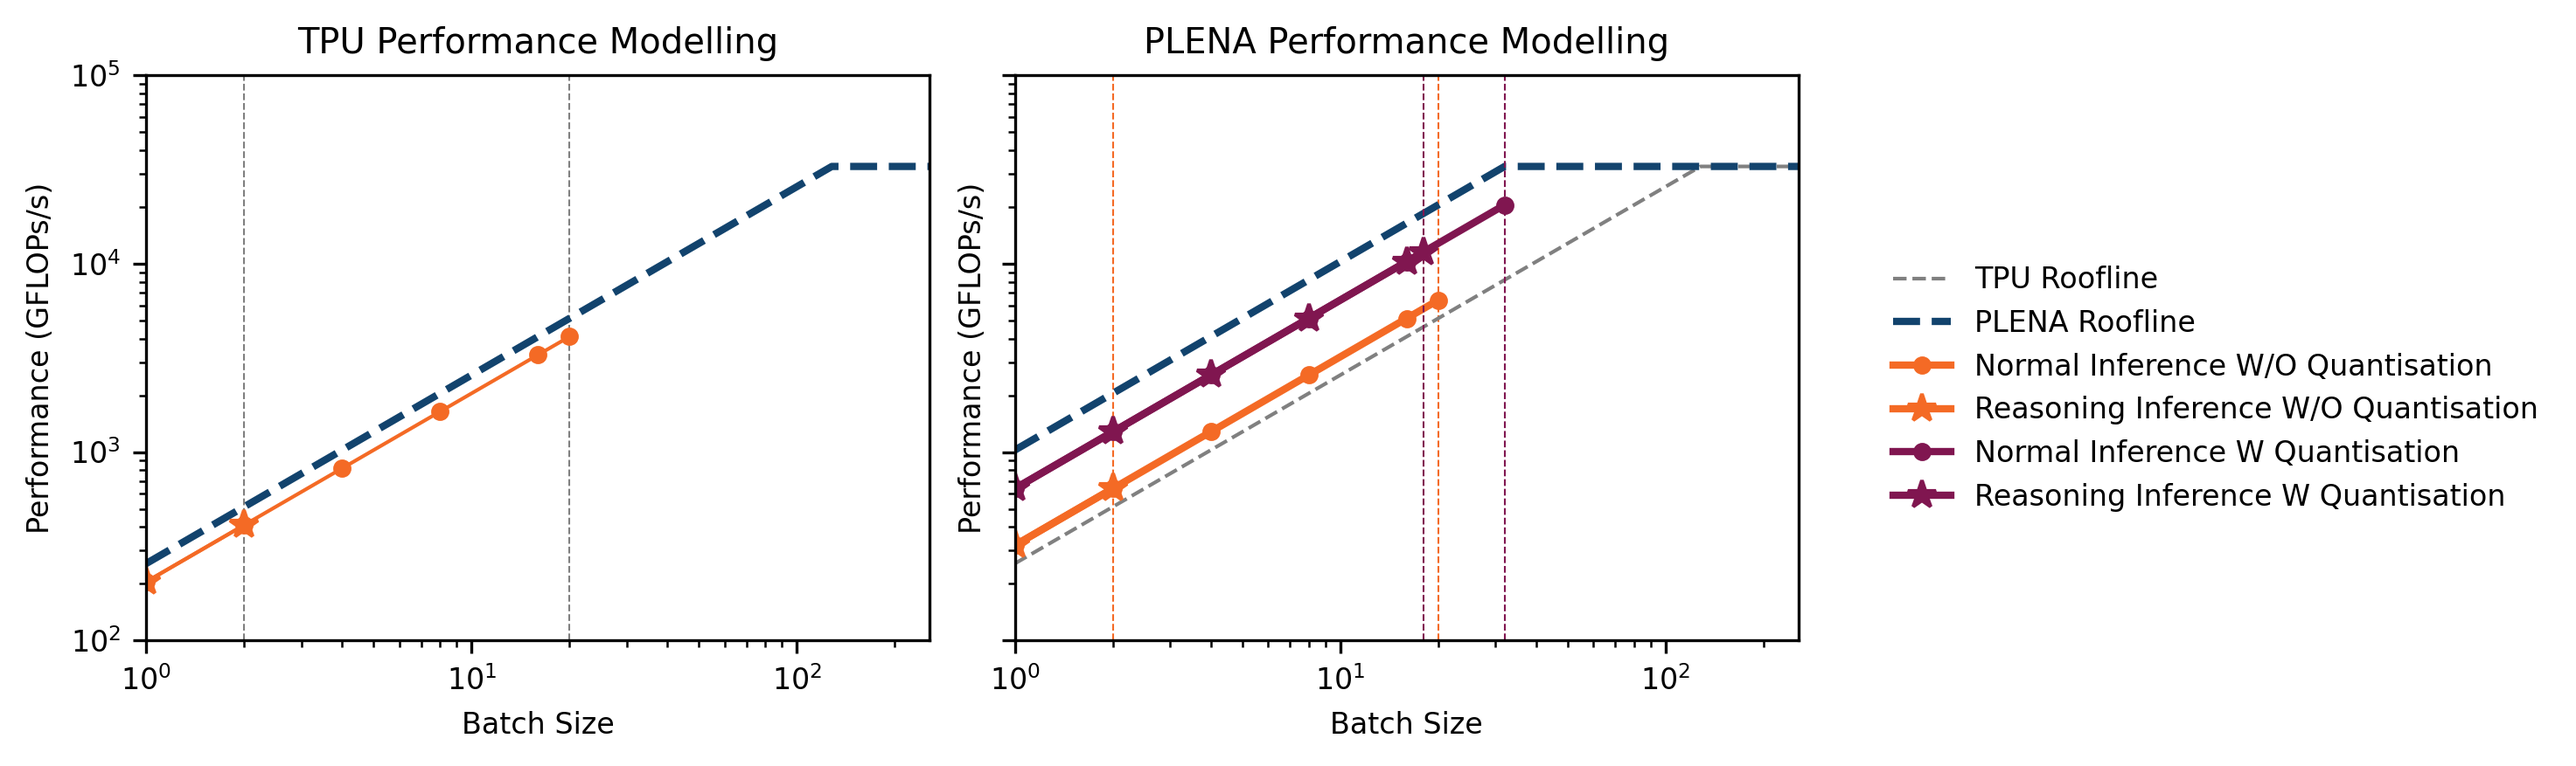
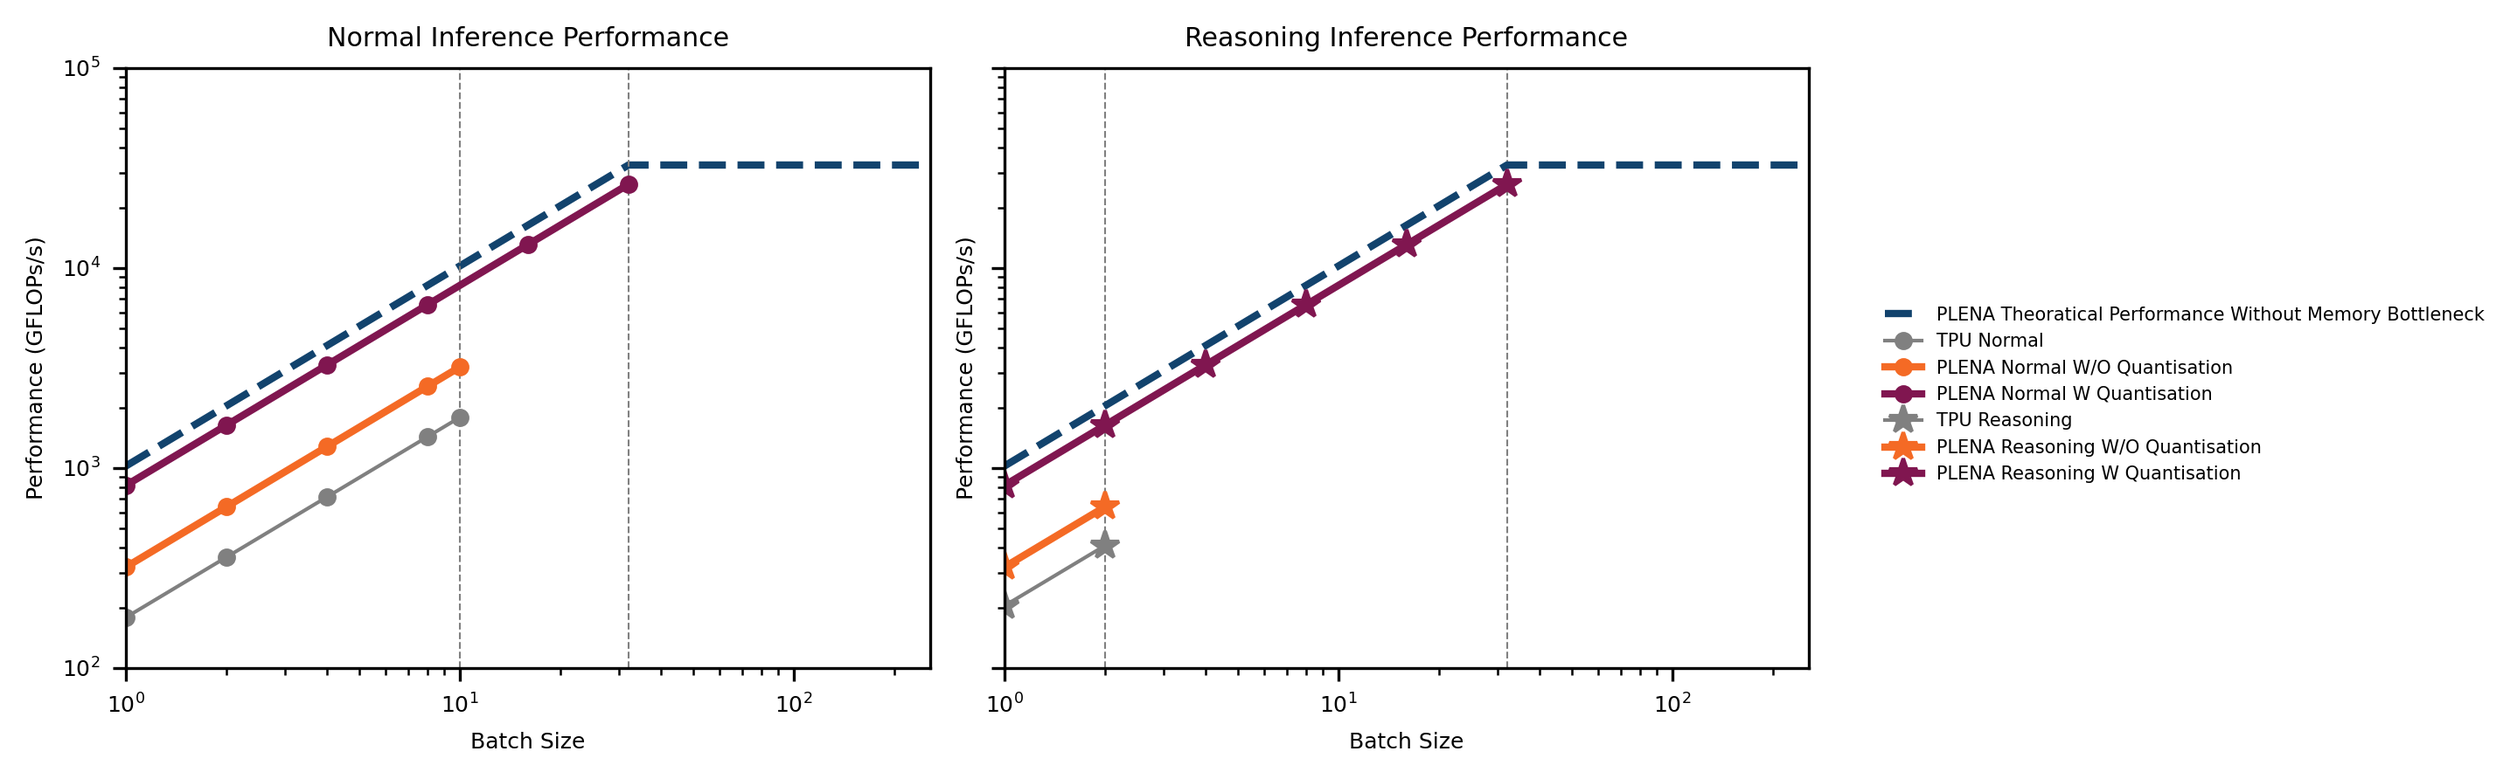
roofline model and fp_adder timing updates

diff --git a/tools/roofline_model/v2_roofline_model_plot.py b/tools/roofline_model/v2_roofline_model_plot.py
@@ -21,7 +21,7 @@ Operate_Freq = 1e9      # 1 GHz
 DataWidth = 2           # 1 byte per element
 HBM_Bandwidth = 800e9   # 512 GB/s
 HBM_Capacity = 128      # 128 GB
-SEQ_LENGTH_NORM =  256
+SEQ_LENGTH_NORM =  512
 SEQ_LENGTH_REASONING = 2048
 
 B200_Params = {
@@ -121,6 +121,7 @@ def device_performance(device_model, seq_context_length, max_batch, model_config
         roofline_performance[batch] = min(peak_tflops, max_tflops)
     
     actual_performance = {}
+    print("device width:", device_model.data_width)
     max_tilesize = device_model.hbm_bandwidth / (2 * device_model.operate_freq * device_model.data_width)
     print("batch_bound:", batch_bound, "max_tilesize:", max_tilesize)
     sampled_batch = select_powers_of_two_with_last(batch_bound)
@@ -135,7 +136,7 @@ def device_performance(device_model, seq_context_length, max_batch, model_config
 
 
 if __name__ == "__main__":
-    matplotlib.rcParams['font.size'] = 8
+    matplotlib.rcParams['font.size'] = 6
     config_parent_path  = Path(__file__).resolve().parents[2]
     print(f"Config parent path: {config_parent_path}")
     model_config_path   = os.path.join(config_parent_path, "doc/Model_Lib/llama-3.1-70b.json")
@@ -144,109 +145,122 @@ if __name__ == "__main__":
 
 
     # Plot TPU Performance
-    tpu_model = DeviceModel(operate_freq=TPU_Params["Operate_Freq"], M=TPU_Params["M"], K=TPU_Params["K"], N=TPU_Params["N"], data_width=TPU_Params["DataWidth"], hbm_bandwidth=TPU_Params["HBM_Bandwidth"], hbm_capacity=TPU_Params["HBM_Capacity"])
-    tpu_roofline_performance, tpu_actual_performance_normal, normal_batch_bound = device_performance(tpu_model, SEQ_LENGTH_NORM, 256, model_config)
+    tpu_model   = DeviceModel(operate_freq=TPU_Params["Operate_Freq"], M=TPU_Params["M"], K=TPU_Params["K"], N=TPU_Params["N"], data_width=TPU_Params["DataWidth"], hbm_bandwidth=TPU_Params["HBM_Bandwidth"], hbm_capacity=TPU_Params["HBM_Capacity"])
+    plena_model = DeviceModel(operate_freq=PLENA["Operate_Freq"], M=PLENA["M"], K=PLENA["K"], N=TPU_Params["N"], data_width= PLENA["DataWidth"], hbm_bandwidth=PLENA["HBM_Bandwidth"], hbm_capacity=PLENA["HBM_Capacity"])
+    soft_optimised_plena_model = DeviceModel(operate_freq=PLENA["Operate_Freq"], M=PLENA["M"], K=PLENA["K"], N=TPU_Params["N"], data_width= PLENA["DataWidth"] / 3, hbm_bandwidth=PLENA["HBM_Bandwidth"], hbm_capacity=PLENA["HBM_Capacity"])
+
+    tpu_roofline_performance, tpu_actual_performance_normal, tpu_normal_batch_bound = device_performance(tpu_model, SEQ_LENGTH_NORM, 256, model_config)
     _, tpu_actual_performance_reasoning, reasoning_batch_bound = device_performance(tpu_model, SEQ_LENGTH_REASONING, 256, model_config)
+
+    plena_roofline_performance, plena_actual_performance_normal, plena_normal_batch_bound = device_performance(plena_model, SEQ_LENGTH_NORM, 256, model_config)
+    _, plena_actual_performance_reasoning, plena_reasoning_batch_bound = device_performance(plena_model, SEQ_LENGTH_REASONING, 256, model_config)
+
+    _, soft_optimised_actual_performance_normal, soft_optimised_normal_batch_bound = device_performance(soft_optimised_plena_model, SEQ_LENGTH_NORM, 256, model_config)
+    _, soft_optimised_actual_performance_reasoning, soft_optimised_reasoning_batch_bound = device_performance(soft_optimised_plena_model, SEQ_LENGTH_REASONING, 256, model_config)
+
     ax1.set_xscale('log')
     ax1.set_yscale('log')
     ax1.set_ylabel('Performance (GFLOPs/s)')
     ax1.set_xlabel('Batch Size')
     ax1.set_ylim(1e2, 1e5)
     ax1.set_xlim(1, 256)
-    ax1.set_title('TPU Performance Modelling')
-    ax1.vlines(normal_batch_bound, 1e2, 1e5, color='gray', linestyle='--', linewidth=0.5)
-    ax1.vlines(reasoning_batch_bound, 1e2, 1e5, color='gray', linestyle='--', linewidth=0.5)
-    ax1.plot(list(tpu_roofline_performance.keys()), list(tpu_roofline_performance.values()), label='TPU Roofline', color=colors[0], linewidth=2, linestyle='--')
-    ax1.plot(
-    list(tpu_actual_performance_normal.keys()),
-    [v * 0.8 for v in tpu_actual_performance_normal.values()],
-    label='TPU Actual',
-    marker='o',  markersize=4,
-    color=colors[1],
-    linewidth=1
-    )
+    ax1.set_title('Normal Inference Performance')
 
+    ax1.plot(list(plena_roofline_performance.keys()), list(plena_roofline_performance.values()), label='PLENA Theoratical Performance Without Memory Bottleneck', color=colors[0], linewidth=2, linestyle='--')
+    ax1.vlines(tpu_normal_batch_bound, 1e2, 1e5, color='grey', linestyle='--', linewidth=0.5)
     ax1.plot(
-    list(tpu_actual_performance_reasoning.keys()),
-    [v * 0.8 for v in tpu_actual_performance_reasoning.values()],
-    label='TPU Actual',
-    marker='*',  markersize=8,
-    color=colors[1],
-    linewidth=1
+        list(tpu_actual_performance_normal.keys()),
+        [v * 0.7 for v in tpu_actual_performance_normal.values()],
+        label='TPU Normal',
+        marker='o',  markersize=4,
+        color='grey',
+        linewidth=1
     )
 
 
-    # Plot PLENA Performance
-    plena_model = DeviceModel(operate_freq=PLENA["Operate_Freq"], M=PLENA["M"], K=PLENA["K"], N=TPU_Params["N"], data_width=PLENA["DataWidth"], hbm_bandwidth=PLENA["HBM_Bandwidth"], hbm_capacity=PLENA["HBM_Capacity"])
-    roofline_performance, plena_actual_performance_normal, normal_batch_bound = device_performance(plena_model, SEQ_LENGTH_NORM, 256, model_config)
-    _, plena_actual_performance_reasoning, reasoning_batch_bound = device_performance(plena_model, SEQ_LENGTH_REASONING, 256, model_config)
+    ax1.vlines(soft_optimised_normal_batch_bound, 1e2, 1e5, color = 'grey', linestyle='--', linewidth=0.5)
+
+
+    ax1.plot(
+        list(plena_actual_performance_normal.keys()),
+        [v * 0.8 for v in plena_actual_performance_normal.values()],
+        label='PLENA Normal W/O Quantisation',
+        marker='o',  markersize=4,
+        color=colors[1],
+        linewidth=2
+    )
+
+    ax1.plot(
+        list(soft_optimised_actual_performance_normal.keys()),
+        [v * 0.8 for v in soft_optimised_actual_performance_normal.values()],
+        label='PLENA Normal W Quantisation',
+        marker='o',  markersize=4,
+        color=colors[3],
+        linewidth=2
+    )
+
+
+    # Plot Reasoninng
     ax2.set_xscale('log')
     ax2.set_yscale('log')
     ax2.set_ylabel('Performance (GFLOPs/s)')
     ax2.set_xlabel('Batch Size')
     ax2.set_ylim(1e2, 1e5)
     ax2.set_xlim(1, 256)
-    ax2.set_title('PLENA Performance Modelling')
-    ax2.vlines(normal_batch_bound, 1e2, 1e5, colors[1], linestyle='--', linewidth=0.5)
-    ax2.vlines(reasoning_batch_bound, 1e2, 1e5, colors[1], linestyle='--', linewidth=0.5)
-    ax2.plot(list(tpu_roofline_performance.keys()), list(tpu_roofline_performance.values()), label='TPU Roofline', color='grey', linewidth=1, linestyle='--')
-    ax2.plot(list(roofline_performance.keys()), list(roofline_performance.values()), label='PLENA Roofline', color=colors[0], linewidth=2, linestyle='--')
-    ax2.plot(
-    list(plena_actual_performance_normal.keys()),
-    [v * 0.8 for v in plena_actual_performance_normal.values()],
-    label='Normal Inference W/O Quantisation',
-    marker='o',  markersize=4,
-    color=colors[1],
-    linewidth=2
-    )
-    ax2.plot(
-    list(plena_actual_performance_reasoning.keys()),
-    [v * 0.8 for v in plena_actual_performance_reasoning.values()],
-    label='Reasoning Inference W/O Quantisation',
-    marker='*',  markersize=8,
-    color=colors[1],
-    linewidth=2
-    )
+    ax2.set_title('Reasoning Inference Performance')
+    ax2.vlines(plena_reasoning_batch_bound, 1e2, 1e5, color='grey', linestyle='--', linewidth=0.5)
+    ax2.vlines(soft_optimised_reasoning_batch_bound, 1e2, 1e5, color='grey', linestyle='--', linewidth=0.5)
 
-    plena_model = DeviceModel(operate_freq=PLENA["Operate_Freq"], M=PLENA["M"], K=PLENA["K"], N=TPU_Params["N"], data_width=PLENA["DataWidth"] / 2, hbm_bandwidth=PLENA["HBM_Bandwidth"], hbm_capacity=PLENA["HBM_Capacity"])
-    _, soft_optimised_actual_performance_normal, normal_batch_bound = device_performance(plena_model, SEQ_LENGTH_NORM, 256, model_config)
-    _, soft_optimised_actual_performance_reasoning, reasoning_batch_bound = device_performance(plena_model, SEQ_LENGTH_REASONING, 256, model_config)
-    ax2.vlines(normal_batch_bound, 1e2, 1e5, colors[3], linestyle='--', linewidth=0.5)
-    ax2.vlines(reasoning_batch_bound, 1e2, 1e5, colors[3], linestyle='--', linewidth=0.5)
+    ax2.plot(list(plena_roofline_performance.keys()), list(plena_roofline_performance.values()), label='PLENA Theoratical Performance Without Memory Bottleneck', color=colors[0], linewidth=2, linestyle='--')
+    
     ax2.plot(
-    list(soft_optimised_actual_performance_normal.keys()),
-    [v * 0.8 for v in soft_optimised_actual_performance_normal.values()],
-    label='Normal Inference W Quantisation',
-    marker='o',  markersize=4,
-    color=colors[3],
-    linewidth=2
+        list(tpu_actual_performance_reasoning.keys()),
+        [v * 0.8 for v in tpu_actual_performance_reasoning.values()],
+        label='TPU Reasoning',
+        marker='*',  markersize=8,
+        color='grey',
+        linewidth=1
+    )
+    
+    ax2.plot(
+        list(plena_actual_performance_reasoning.keys()),
+        [v * 0.8 for v in plena_actual_performance_reasoning.values()],
+        label='PLENA Reasoning W/O Quantisation',
+        marker='*',  markersize=8,
+        color=colors[1],
+        linewidth=2
     )
 
     ax2.plot(
-    list(soft_optimised_actual_performance_reasoning.keys()),
-    [v * 0.8 for v in soft_optimised_actual_performance_reasoning.values()],
-    label='Reasoning Inference W Quantisation',
-    marker='*',  markersize=8,
-    color=colors[3],
-    linewidth=2
+        list(soft_optimised_actual_performance_reasoning.keys()),
+        [v * 0.8 for v in soft_optimised_actual_performance_reasoning.values()],
+        label='PLENA Reasoning W Quantisation',
+        marker='*',  markersize=8,
+        color=colors[3],
+        linewidth=2
     )
-
-    # Get combined legend from both subplots
-    # handles1, labels1 = ax1.get_legend_handles_labels()
-    handles2, labels2 = ax2.get_legend_handles_labels()
 
     from collections import OrderedDict
-    legend_dict = OrderedDict()
 
-    for h, l in zip( handles2, labels2):
+    # Get handles and labels from both axes
+    handles1, labels1 = ax1.get_legend_handles_labels()
+    handles2, labels2 = ax2.get_legend_handles_labels()
+
+    # Combine all handles and labels
+    all_handles = handles1 + handles2
+    all_labels = labels1 + labels2
+
+    # Remove duplicates while preserving order
+    legend_dict = OrderedDict()
+    for h, l in zip(all_handles, all_labels):
         if l not in legend_dict:
             legend_dict[l] = h
 
-    # Make the shared legend outside the plot (on the right)
+
     fig.legend(legend_dict.values(), legend_dict.keys(),
             loc='center left',
             bbox_to_anchor=(1.02, 0.5),  # Push to the right of both axes
-            fontsize=8, frameon=False)
+            fontsize=5, frameon=False)
 
     # Adjust space so plots don't overlap with the legend
     fig.subplots_adjust(right=0.75)  # Leave space for legend
